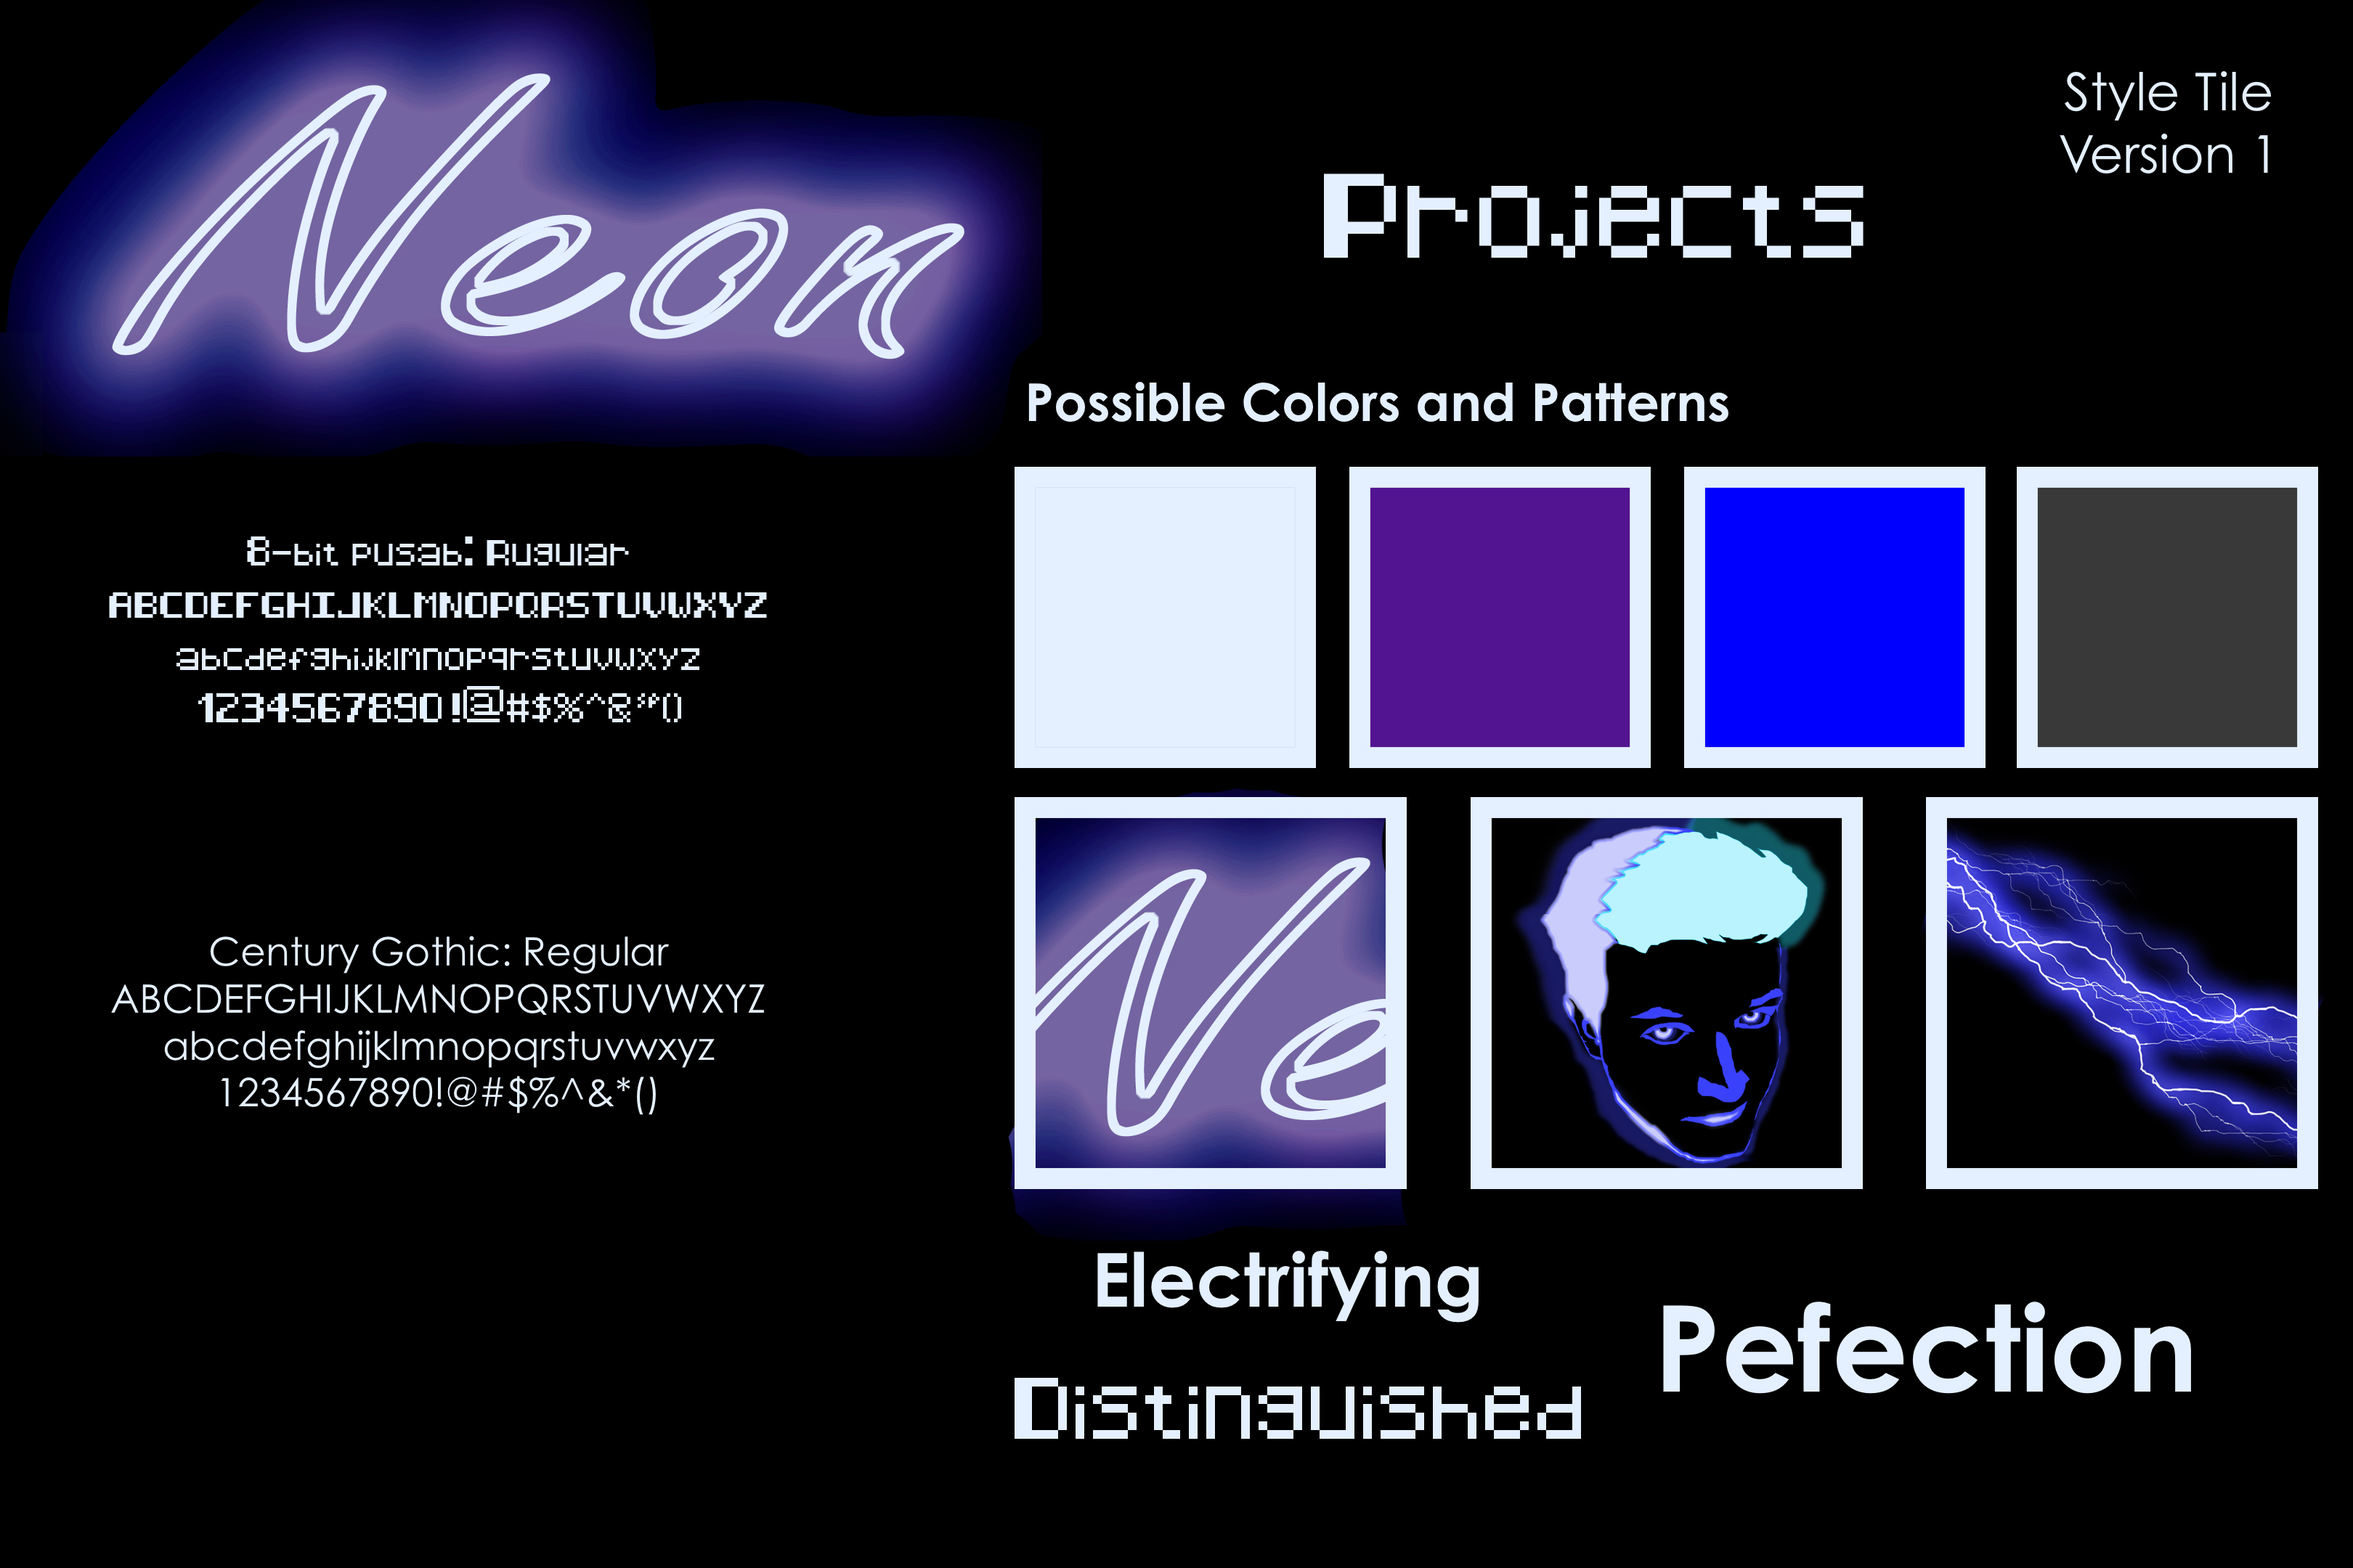
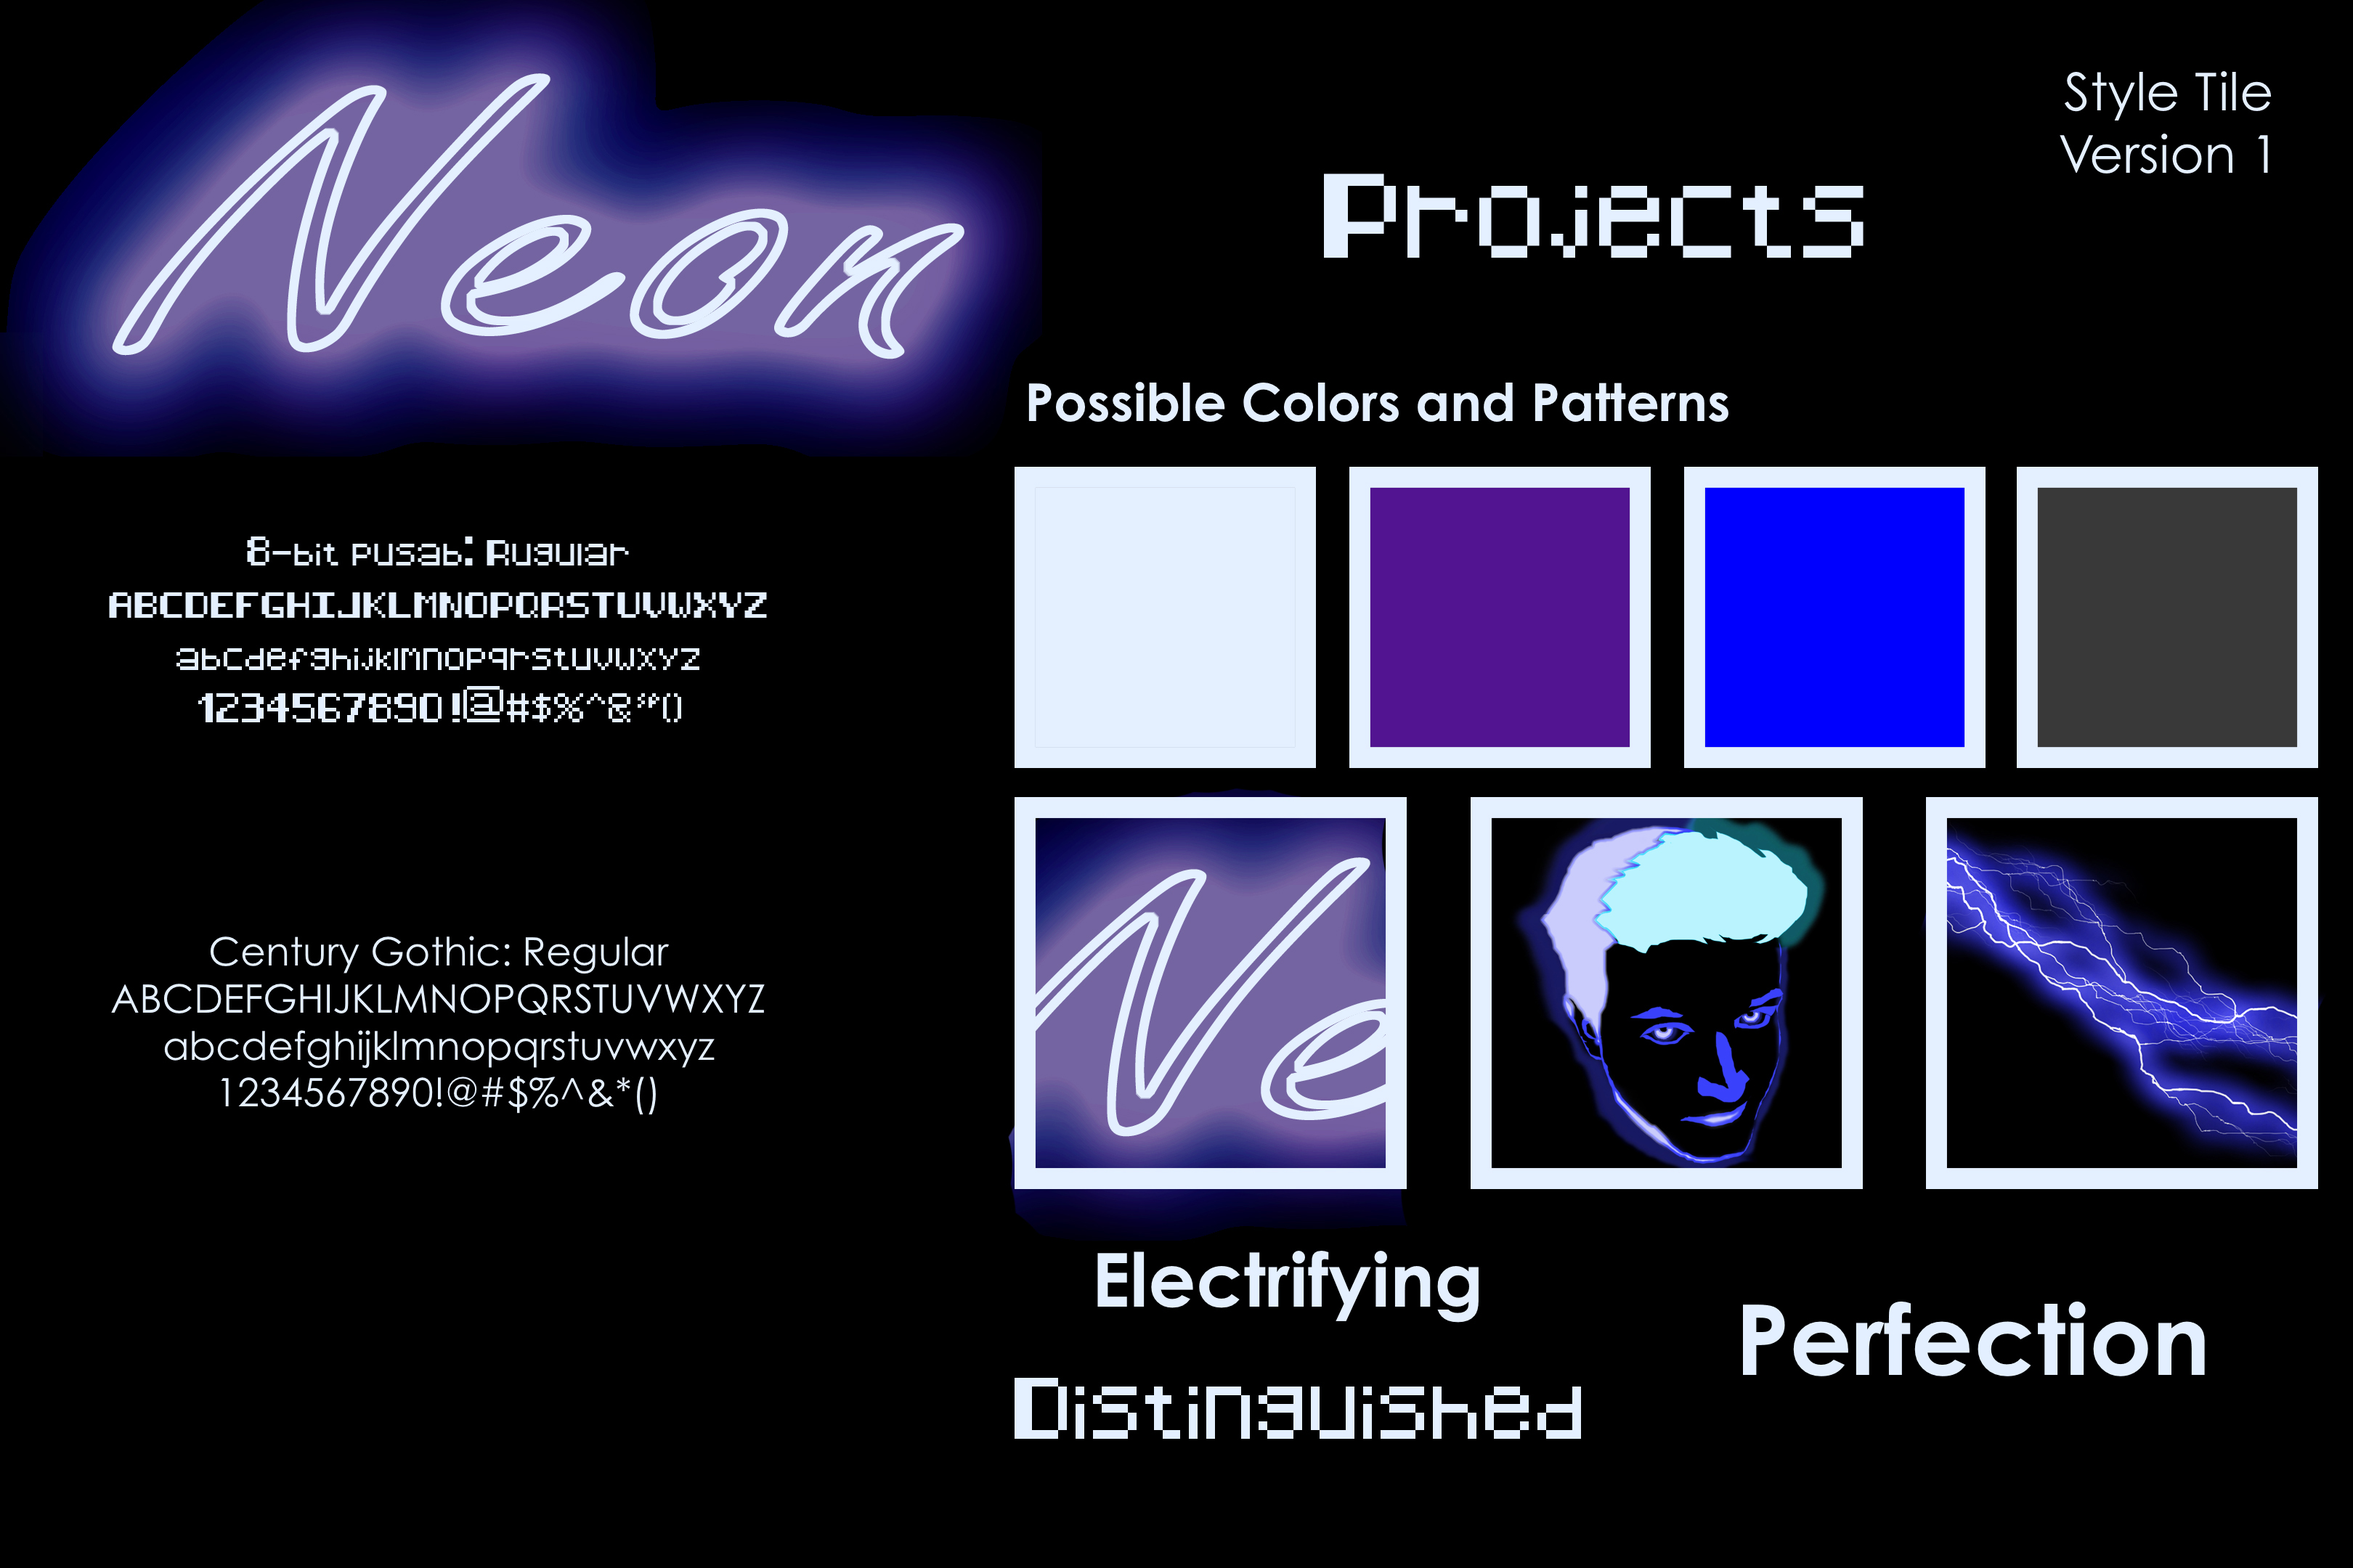
Fixed spelling and grammar

Changed region(s): [[0.6858, 0.8065, 0.9352, 0.8995]]

diff --git a/Games.html b/Games.html
@@ -41,7 +41,7 @@
 		</div>
 	</div>
 	<div id="Intro">
-		<p>Designing games was my main focus in college. Over the years I have develpoed and co-created many small games across many genres. Some genres include strategy, first person shooter, thrid person, text based adventure games, and escape room challenges.</p>
+		<p>Designing games was my main focus in college. Over the years I have develpoed and co-created many small games across many genres. Some genres include strategy, first person shooter, third person, text based adventure games, and escape room challenges.</p>
 	</div>
 	<div id="GDR">
 		<h3>Game Design Reel</h3>
@@ -52,7 +52,7 @@
 	</video>
 	<div id="Summ">
 		<h3>Those Who Would Save Us</h3>
-		<p>Those Who Would Save US is a game I have designed myself. It was never made however this one sheet showcases some of my design cabability.</p>
+		<p>Those Who Would Save US is a game I have designed myself. It was never made however this one sheet showcases some of my design capability.</p>
 	</div>
 	<div id="TWWSU">
 		<img src="TWWSUO.jpg">
@@ -62,7 +62,7 @@
 	</div>
 	<div id="Summ">
 		<h3>Fabricators</h3>
-		<p>Fabricators is a text based adventure game I designed myself, where you play as the main character Sam or as he is better known, Special Agent 16, Fabricator. The game starts the protagonist waking up from hyper sleep in a space ship headed to a planet he will be teraforming in a way. Sam is a fabricator which is a secret agent cultivated by the furistic United Nations to collapse the goverment of other words. He achieves such a feat by becoming one of the dominant spiceis' diplomats and inspiring political discourse. The objective of the United Nations is to cause the demise of the planets main species so that humans can inhabit the planet with out having bad press from the media acusing the U.N. of being inhumane. Throughout the game Sam has limited interaction with anyone other than his intelligence relay Gene, who he has never met in person. She advises him and collects his mission reports. Sam's objective is to complete his mission as quickly as possible. Under a lot of pressure already, he works for the U.N. because they promise the safty of his younger brother, the one thing our protagonist truely cares about. Embark on an epic journey of deciding between the mission and your moral standing.</p>
+		<p>Fabricators is a text based adventure game I designed myself, where you play as the main character Sam or as he is better known, Special Agent 16, Fabricator. The game starts the protagonist waking up from hyper sleep in a space ship headed to a planet he will be terraforming in a way. Sam is a fabricator which is a secret agent cultivated by the futuristic United Nations to collapse the goverment of other words. He achieves such a feat by becoming one of the dominant spicies' diplomats and inspiring political discourse. The objective of the United Nations is to cause the demise of the planets main species so that humans can inhabit the planet without having bad press from the media accusing the U.N. of being inhumane. Throughout the game, Sam has limited interaction with anyone other than his intelligence relay Gene, who he has never met in person. She advises him and collects his mission reports. Sam's objective is to complete his mission as quickly as possible. Under a lot of pressure already, he works for the U.N. because they promise the safety of his younger brother, the one thing our protagonist truly cares about. Embark on an epic journey of deciding between the mission and your moral standing.</p>
 		<a href="http://play2.textadventures.co.uk/Play.aspx?id=buofpfvpjkc5y3d2zick5g">Play Fabricators</a>
 </div>
 </div>

diff --git a/Music.html b/Music.html
@@ -41,7 +41,7 @@
 		</div>
 	</div>
 	<div id="Intro">
-		<p>Music is another passion of mine. I can't go a day wihtout it, and because of my love for music, I thought I would trying making some. Some turned into me having my own little studio and the creation of over a hungdred tracks of various genres. You can sample some of the music I've made below.</p>
+		<p>Music is another passion of mine. I can't go a day without it, and because of my love for music, I thought I would trying making some. Some turned into me having my own little studio and the creation of over a hundred tracks of various genres. You can sample some of the music I've made below.</p>
 	</div>
 	<div id="GDR">
 		<h3>Music</h3>

diff --git a/Fx.html b/Fx.html
@@ -52,7 +52,7 @@
 	</video>
 </div>
 	<div id="Summ">
-		<p>Below Are some images I've digitally edited.</p>
+		<p>Below are some images I've digitally edited.</p>
 	</div>
 	<div id="Pics">
 		<div id="Meme">
